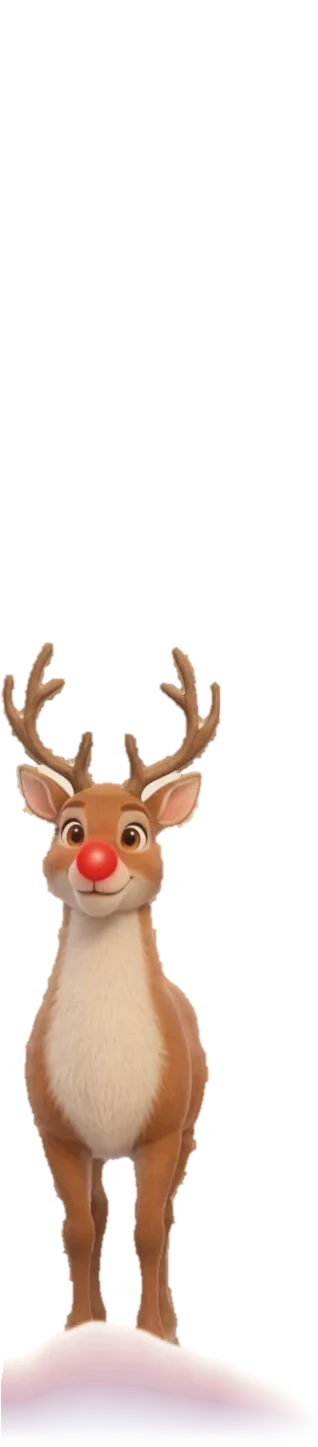
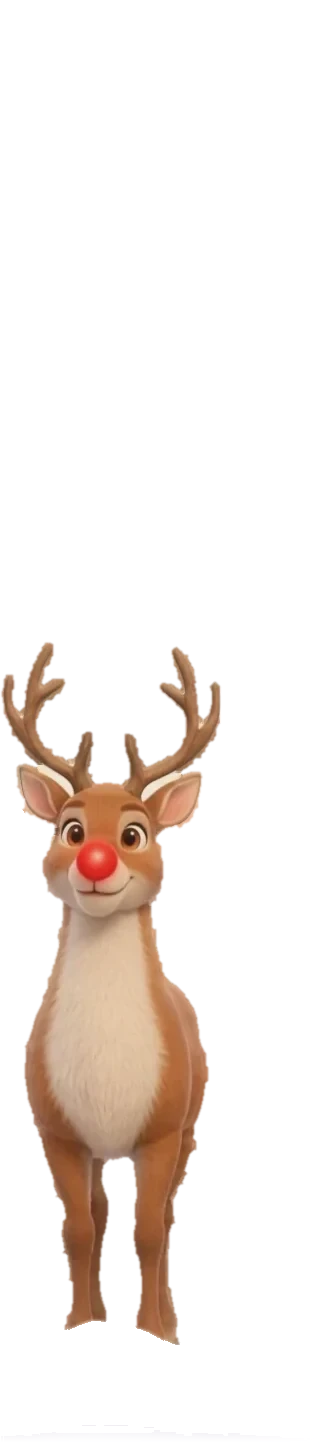
Land the found Reindeer in the snowdrift
- Remove the Reindeer layer's baked snow mound
- Found pop-up lifts yPercent -4 instead of -22, so its legs end inside
  the drift; it stays behind the drift while talking

Changed region(s): [[0.0, 0.9019, 0.8774, 0.9952]]

diff --git a/public/js/site.js b/public/js/site.js
@@ -58,7 +58,7 @@
       $$('.ch').forEach(function(ch,i){setTimeout(function(){say(ch,CHEER[i%CHEER.length]);},i*260);});}}
   function findDeer(){if(found.deer)return;
     deerEl.classList.add('found');document.getElementById('hero').classList.add('found-deer');if(peek)peek.remove();
-    if(window.gsap&&!rm){gsap.to(deerEl,{yPercent:-22,duration:.7,ease:'back.out(2.2)',onComplete:function(){say(deerEl);}});}else{deerEl.style.transform='none';say(deerEl);}
+    if(window.gsap&&!rm){gsap.to(deerEl,{yPercent:-4,duration:.7,ease:'back.out(2.2)',onComplete:function(){say(deerEl);}});}else{deerEl.style.transform='none';say(deerEl);}
     score('deer','You found the Reindeer!');}
   if(peek)peek.addEventListener('click',findDeer);
   if(deerEl)deerEl.addEventListener('click',function(){if(!found.deer)findDeer();});

diff --git a/public/css/site.css b/public/css/site.css
@@ -935,3 +935,5 @@ background-color:#8b87bf}
 .ch-santa{--head:59.4%}.ch-elf{--head:57.9%}.ch-mrs{--head:56.1%}.ch-boy{--head:50.4%}.ch-girl{--head:49.3%}.ch-deer{--head:55.6%}
 /* a talking character comes forward so its bubble isn't hidden by the callout or the hunt items */
 .ch.talk{z-index:12}
+/* found Reindeer stands in the snowdrift: its legs end inside the drift, so it stays behind it even while talking */
+.ch-deer.found,.ch-deer.talk{z-index:9}

diff --git a/docs/HANDOFF.md b/docs/HANDOFF.md
@@ -84,7 +84,7 @@ Images were generated with Higgsfield (`gpt_image_2_5`) and background-removed t
 - **Custom cursor removed** (the red dot that followed the mouse and grew into "Join" over CTAs). `data-cur="big"` stays: the confetti on CTAs uses it.
 - **Hero ≤900px:** `.hero-copy` is in normal flow, and `#hero` is copy + `--cs` + lift tall instead of a full viewport, so tall phones and tablets don't get a band of empty sky. The candy cane is on the `--cs` grid. `.hero-copy` is centred with margins rather than `translateX(-50%)`, because `site.js` scrubs a transform on it and GSAP's inline transform used to wipe out the centring when a desktop-loaded page was narrowed. `main{overflow-x:clip}` stops the snowdrift and the parked series-card fan from widening the page.
 - **Short desktop screens** (`min-width:901px` and `max-height:700px`): the "Read about the book" button is hidden; it landed on the cast's heads.
-- **Hero ground pass:** the boy, girl and Reindeer no longer move separately from the cast (shared parallax depth; the scroll "sink" on `.ch` is gone). They all stand on one continuous snowbank, and the snowdrift sits on the bank with its base faded in. The Reindeer's peek bob moved to `.ch-deer .fig` (a CSS animation on `.ch-deer` itself would override GSAP's parallax transform), and "found" uses `yPercent`. "Tap the snowdrift!" is anchored on the drift's centre (`cx + 1.98cs`) and clears the girl's head. The "?" rides above the antlers. `hero-boy`/`hero-girl` have their baked snow faded out under the bank (`fadebase.py`). Added `app/icon.svg` (favicon from the shield mark).
+- **Hero ground pass:** the boy, girl and Reindeer no longer move separately from the cast (shared parallax depth; the scroll "sink" on `.ch` is gone). They all stand on one continuous snowbank, and the snowdrift sits on the bank with its base faded in. The Reindeer's peek bob moved to `.ch-deer .fig` (a CSS animation on `.ch-deer` itself would override GSAP's parallax transform), and "found" lifts it only `yPercent:-4`, so its legs end inside the snowdrift (its baked snow mound was removed from `hero-reindeer.webp`; `.ch-deer.found/.talk` stay at z 9, behind the drift). "Tap the snowdrift!" is anchored on the drift's centre (`cx + 1.98cs`) and clears the girl's head. The "?" rides above the antlers. `hero-boy`/`hero-girl` have their baked snow faded out under the bank (`fadebase.py`). Added `app/icon.svg` (favicon from the shield mark).
 - **Hero CSS stack (#3)** not collapsed: these fixes didn't touch hero positioning, so it's still worth doing before the next real hero change.
 
 ## Private docs (gitignored, `docs/private/`)
